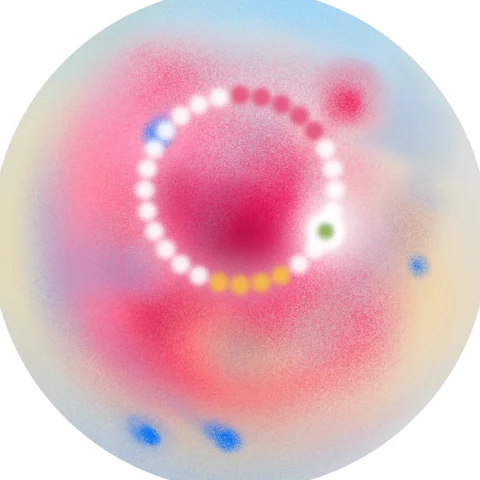
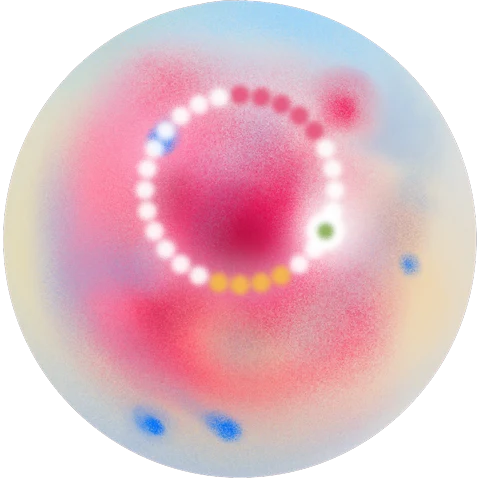
Explore: her orbs frameless and whole (own grainy edge, shadow follows the painting) so they sit on the page like the background art; even, symmetrical 3-2 layout, straight stickers, all orbs float together

diff --git a/sw.js b/sw.js
@@ -1,5 +1,5 @@
 // Offline cache for the app shell. Bump VERSION when shipping changes.
-const VERSION = 'uts-v1354';
+const VERSION = 'uts-v1357';
 const SHELL = ['./', './index.html', './js/lotus.js', './styles.css', './manifest.json', './icons/icon-192.png', './icons/icon-512.png', './icons/apple-touch-icon.png', './icons/icon-64.png', './icons/icon-32.png', './icons/icon-maskable-512.png', './fonts/ballet-latin.woff2', './fonts/ballet-latin-ext.woff2',
   './js/app.js', './js/data.js', './js/cycle.js', './js/legal.js', './js/i18n.js', './js/icons.js', './js/cosmic.js', './js/astro.js', './js/moonguide.js', './js/moon3d.js', './js/figure.js', './js/figure3d.js', './js/torso.js', './js/torso3d.js', './js/photos.js', './js/seasonal.js', './js/world.js', './js/ground.js', './js/athlete.js', './js/bodymap.js', './js/molecules.js', './js/welcome3d.js', './js/teacup3d.js', './js/sfx.js', './js/ticketmotion.js', './js/sun.js', './js/account.js', './js/config.js', './images/planet.jpg', './images/gate-rose.webp', './images/lotus-menstrual.webp', './images/lotus-follicular.webp', './images/lotus-ovulatory.webp', './images/lotus-luteal.webp', './images/breath-bud.webp', './images/breath-bloom.webp', './images/period.png', './images/partner-cinema.webp', './images/partner-hands.jpg', './images/ground-roots.jpg', './images/ground/golden-roots.webp', './images/pixel-aura-0.png', './images/pixel-aura-1.png', './images/pixel-aura-2.png', './images/pixel-aura-3.png', './images/sun-moon.webp', './images/sun-moon.mp4', './images/tea-ginger.webp', './images/sun-moon-poster.webp', './images/rhythm-sun.webp', './images/move-stardust.mp4', './images/move-stardust.webp', './images/move-meditate.webp', './images/move-walk.webp', './images/move-yoga.webp', './images/move-sport.webp', './images/move-pilates.webp', './images/move-hiit.webp', './images/move-lift.webp', './images/season-veg.webp', './images/season-fruit.webp', './images/stress-meditate.mp4', './images/stress-meditate.webp', './images/stress-breathe.mp4', './images/stress-breathe.webp', './images/forest-path.jpg', './images/welcome-forest.jpg', './images/welcome-leaves.webp', './images/welcome-forest-bare.jpg', './images/intro-forest.jpg', './images/forest-calm.jpg', './images/tile-meditate.webp', './images/tile-ground.webp', './images/tile-walk.webp', './images/tile-yoga.webp', './images/tile-sport.webp', './images/tile-pilates.webp', './images/tile-hiit.webp', './images/tile-lift.webp', './images/purpose-body.jpg', './images/purpose-conceive.jpg', './images/purpose-after.jpg', './images/purpose-after-feet.jpg', './images/period-food.webp', './images/plate.webp', './images/read-lilies.webp', './images/read-seasons.webp', './models/body2.glb', './models/teacup.glb', './models/matcha.glb', './models/greentea.glb', './images/cup-matcha.webp', './models/soup.glb', './images/dish-soup.webp', './models/pho.glb', './images/dish-pho.webp', './models/miso.glb', './images/dish-miso.webp', './models/stew.glb', './images/dish-stew.webp', './models/veg-plate.glb', './models/salad-a.glb', './images/dish-salad-a.webp', './models/salad-b.glb', './images/dish-salad-b.webp', './images/dish-veg.webp', './models/taco.glb', './images/dish-taco.webp', './models/gyro.glb', './images/dish-gyro.webp', './models/marrow.glb', './images/dish-marrow.webp', './models/curry.glb', './images/dish-curry.webp', './models/steak.glb', './images/dish-steak.webp', './models/sweet-potato.glb', './images/dish-sweet-potato.webp', './models/mint-tea.glb', './images/cup-mint.webp', './models/chamomile.glb', './images/cup-chamomile.webp', './models/hibiscus.glb', './models/latte.glb', './models/coffee.glb', './models/broth.glb', './models/cortisol.glb', './images/cortisol-mol.webp', './models/moon.glb', './images/cup-chai.webp', './images/cup-hibiscus.webp', './images/cup-glass.webp', './sounds/forest-stream.m4a', './images/herbs/astragalus.svg', './images/herbs/red-dates.svg', './images/herbs/ginger.svg', './images/herbs/clove.svg', './images/herbs/cinnamon.svg', './images/herbs/goji.svg', './images/herbs/reishi.svg', './images/herbs/chaga.svg', './images/herbs/he-shou-wu.svg', './images/drinks/broth.svg', './images/drinks/cacao.svg', './images/drinks/chamomile-tea.svg', './images/drinks/coconut-water.svg', './images/drinks/coffee.svg', './images/drinks/ginger-tea.svg', './images/drinks/green-juice.svg', './images/drinks/hibiscus-tea.svg', './images/drinks/iced-matcha.svg', './images/drinks/lemon-water.svg', './images/drinks/matcha-latte.svg', './images/drinks/matcha.svg', './images/drinks/mineral-water.svg', './images/drinks/nettle-tea.svg', './images/drinks/raspberry-leaf-tea.svg', './images/drinks/red-date-tea.svg', './images/emoji/iron-ore.svg', './images/emoji/log-cramps.svg', './images/emoji/log-pelvic-pain.svg', './images/emoji/log-joint-pain.svg', './images/emoji/log-constipation.svg', './images/emoji/log-acne.svg', './images/emoji/log-brain-fog.svg', './images/emoji/log-unusual-colour.svg', './images/emoji/amla.svg', './images/emoji/apricot.svg', './images/emoji/artichoke.svg', './images/emoji/asian-pear.svg', './images/emoji/bamboo-shoot.svg', './images/emoji/bean-sprouts.svg', './images/emoji/bitter-gourd.svg', './images/emoji/black-trumpet.svg', './images/emoji/blackberry.svg', './images/emoji/bottle-gourd.svg', './images/emoji/brussels-sprouts.svg', './images/emoji/burdock.svg', './images/emoji/button-mushroom.svg', './images/emoji/cardoon.svg', './images/emoji/cassava.svg', './images/emoji/cauliflower.svg', './images/emoji/celeriac.svg', './images/emoji/chanterelle.svg', './images/emoji/chard.svg', './images/emoji/chayote.svg', './images/emoji/cloudberry.svg', './images/emoji/cranberry.svg', './images/emoji/currants.svg', './images/emoji/custard-apple.svg', './images/emoji/daikon.svg', './images/emoji/dandelion.svg', './images/emoji/dragon-fruit.svg', './images/emoji/drumsticks.svg', './images/emoji/elderberry.svg', './images/emoji/enoki.svg', './images/emoji/feijoa.svg', './images/emoji/fiddlehead.svg', './images/emoji/green-plum.svg', './images/emoji/guava.svg', './images/emoji/horseradish.svg', './images/emoji/jackfruit.svg', './images/emoji/jamun.svg', './images/emoji/jerusalem-artichoke.svg', './images/emoji/kale.svg', './images/emoji/king-oyster.svg', './images/emoji/kohlrabi.svg', './images/emoji/korean-melon.svg', './images/emoji/leek.svg', './images/emoji/lingonberry.svg', './images/emoji/lions-mane.svg', './images/emoji/long-beans.svg', './images/emoji/loquat.svg', './images/emoji/lotus-root.svg', './images/emoji/lychee.svg', './images/emoji/mangosteen.svg', './images/emoji/morel.svg', './images/emoji/okra.svg', './images/emoji/oyster-mushroom.svg', './images/emoji/papaya.svg', './images/emoji/parsnip.svg', './images/emoji/passion-fruit.svg', './images/emoji/persimmon.svg', './images/emoji/plum.svg', './images/emoji/porcini.svg', './images/emoji/prickly-pear.svg', './images/emoji/rambutan.svg', './images/emoji/raspberry.svg', './images/emoji/ridge-gourd.svg', './images/emoji/rosehip.svg', './images/emoji/salsify.svg', './images/emoji/samphire.svg', './images/emoji/sea-buckthorn.svg', './images/emoji/shiitake.svg', './images/emoji/spring-onion.svg', './images/emoji/starfruit.svg', './images/emoji/tamarind.svg', './images/emoji/taro.svg', './images/emoji/turnip.svg', './images/emoji/watercress.svg', './images/emoji/yuzu.svg', './images/emoji/almonds.webp', './images/emoji/asparagus.webp', './images/emoji/beetroot.webp', './images/emoji/black-sesame.webp', './images/emoji/cardamom.webp', './images/emoji/chia.webp', './images/emoji/cinnamon.webp', './images/emoji/fennel-seeds.webp', './images/emoji/fennel.webp', './images/emoji/fig.webp', './images/emoji/flaxseed.webp', './images/emoji/goji.webp', './images/emoji/hemp.webp', './images/emoji/liver.webp', './images/emoji/pomegranate.webp', './images/emoji/pumpkin-seeds.webp', './images/emoji/quince.webp', './images/emoji/radish.webp', './images/emoji/red-dates.webp', './images/emoji/rhubarb.webp', './images/emoji/sesame.webp', './images/emoji/sunflower-seeds.webp', './images/emoji/tahini.webp', './images/emoji/turmeric.webp', './images/emoji/walnuts.webp', './images/emoji/black-seed-oil.svg', './images/emoji/cacao.svg', './images/emoji/water.svg', './images/emoji/black-pepper.svg', './images/emoji/cumin.svg', './images/emoji/curry.svg', './images/emoji/dates.svg', './images/emoji/maple-syrup.svg', './images/emoji/mayonnaise.svg', './images/emoji/mustard.svg', './images/emoji/nutmeg.svg', './images/emoji/nutritional-yeast.svg', './images/emoji/paprika.svg', './images/emoji/tamari.svg', './images/emoji/toothpick.svg', './images/emoji/vanilla.svg', './images/bg/mist.webp', './images/bg/arch.webp', './images/bg/arch-band.webp', './images/bg/frame-band.webp', './images/bg/frame-top.webp', './images/bg/frame-bottom.webp', './images/bg/frame-side.webp', './images/bg/leaves.webp', './images/bg/lotus.webp', './images/bg/lotus-petals.webp', './images/bg/lotus-lines.webp', './images/bg/swirls.webp', './images/tea-glow-bg.webp', './images/herbs/astragalus-real.webp', './images/herbs/clove-real.webp', './images/herbs/chaga-real.webp', './images/herbs/reishi-real.webp', './images/herbs/he-shou-wu-photo.webp', './images/sf/astragalus.webp', './images/sf/elderberries.webp', './images/sf/walnuts.webp', './images/sf/iron.webp', './images/drinks/cup-covered.svg', './images/pets/bunny.svg', './images/pets/kitty.svg', './images/pets/bear.svg', './images/pets/panda.svg', './images/pets/fox.svg', './images/pets/frog.svg', './images/pets/chick.svg', './images/pets/hamster.svg'];
 

diff --git a/styles.css b/styles.css
@@ -8383,16 +8383,12 @@ img[src$="read-lilies.webp"] { object-fit: contain !important; object-position: 
 
 /* Today › Explore: round photo bubbles in a 2-3-2 honeycomb (from the user's bubble reference); a coloured rim glows softly inside each, the name sits on the photo, and the bubbles float very slowly */
 /* Explore: her painted orbs floating in a loose, whimsical cluster (sizes and spots from js), each name on a little tilted white sticker */
-.xp3 { position: relative; width: 100%; aspect-ratio: 1 / .92; margin: 10px 0 30px; }
-.xb { position: absolute; left: calc(var(--x) * 100%); top: calc(var(--y) / .92 * 100%); width: calc(var(--d) * 100%); aspect-ratio: 1; padding: 0; border: 0; background: none; cursor: pointer; -webkit-tap-highlight-color: transparent;
-  animation: xbFloat 7s ease-in-out infinite; animation-delay: calc(var(--i) * -1.4s); }
-.xb-o { position: absolute; inset: 0; border-radius: 50%; overflow: hidden; isolation: isolate; background: #efe6ea;
-  box-shadow: 0 0 0 2.5px #fff, 0 18px 30px -14px rgba(32,48,26,.55), 0 6px 12px -6px rgba(32,48,26,.3);
-  transition: transform .4s cubic-bezier(.2,.8,.2,1); }
-.xb-o img, .xb-o video { position: absolute; inset: 0; width: 100%; height: 100%; object-fit: cover; filter: saturate(1.22) contrast(1.08); }
-/* pearl sheen from the top left, like glass over the painting */
-.xb-o::after { content: ''; position: absolute; inset: 0; border-radius: 50%; pointer-events: none;
-  background: radial-gradient(48% 34% at 30% 17%, rgba(255,255,255,.5), rgba(255,255,255,0) 72%); }
+.xp3 { position: relative; width: 100%; aspect-ratio: 1 / .72; margin: 10px 0 30px; }
+.xb { position: absolute; left: calc(var(--x) * 100%); top: calc(var(--y) / .72 * 100%); width: calc(var(--d) * 100%); aspect-ratio: 1; padding: 0; border: 0; background: none; cursor: pointer; -webkit-tap-highlight-color: transparent;
+  animation: xbFloat 7s ease-in-out infinite; }
+/* the painting itself, whole with its own grainy round edge, no frame: it sits on the page like the background art, with a shadow that follows it */
+.xb-o { position: absolute; inset: 0; transition: transform .4s cubic-bezier(.2,.8,.2,1); }
+.xb-o img, .xb-o video { position: absolute; inset: 0; width: 100%; height: 100%; object-fit: contain; filter: saturate(1.18) contrast(1.06) drop-shadow(0 14px 16px rgba(60,40,50,.22)); }
 .xb-t { position: absolute; left: 50%; bottom: -4px; translate: -50% 0; rotate: var(--r); white-space: nowrap;
   padding: 6px 12px 7px; border-radius: 999px; background: #fff; color: #20301a; font: 500 13px/1 Outfit, sans-serif; letter-spacing: .005em;
   box-shadow: 0 6px 14px -6px rgba(32,48,26,.45), 0 0 0 1px rgba(32,48,26,.06); transition: rotate .4s cubic-bezier(.2,.8,.2,1); }

diff --git a/js/app.js b/js/app.js
@@ -2072,8 +2072,8 @@ function exploreGrid(info) {
   const tiles = [['super', 'leaf', 'Superfoods', 'Spices & superfoods for your phase', 'images/xb/super.webp'], ['guide', 'chart', 'Cycle guide', `Day ${info.cd}, day by day`, 'images/xb/guide.webp'],
     ['relief', 'heart', 'Balance hormones', 'Step by step, fundamentals first', 'images/xb/relief.webp'],
     ['tea', 'cup', 'Tea guide', 'For every need', 'images/xb/tea.webp'], ['breathe', 'leaf', 'Breathe', 'Meditate & breathe', 'images/xb/breathe.webp']];
-  // her painted orbs floating in a loose cluster, each a different size, the name on a little tilted sticker
-  const spot = [[.36, .02, .04, -4], [.30, .385, 0, 3], [.31, .64, .06, -2], [.32, .12, .52, 3], [.35, .50, .49, -3]];
+  // her painted orbs, frameless, in an even 3-2 honeycomb with the name on a white sticker
+  const spot = [[.31, .02, 0, 0], [.31, .345, 0, 0], [.31, .67, 0, 0], [.31, .1825, .37, 0], [.31, .5075, .37, 0]];
   const bub = ([to, ic, t, sub, img, vid], i) => { const [d, x, y, r] = spot[i]; return `<button class="xb" data-action="${to === 'super' ? 'superGo' : 'nav'}" data-to="${to}" style="--i:${i};--d:${d};--x:${x};--y:${y};--r:${r}deg" aria-label="${t}: ${sub}"><span class="xb-o">${vid ? `<video class="dpt-vid" src="${vid}" poster="${img}" muted loop playsinline preload="none" aria-hidden="true"></video>` : `<img src="${img}" alt="" loading="lazy">`}</span><span class="xb-t">${t}</span></button>`; };
   return `<div class="xp3">${tiles.map(bub).join('')}</div>`;
 }
